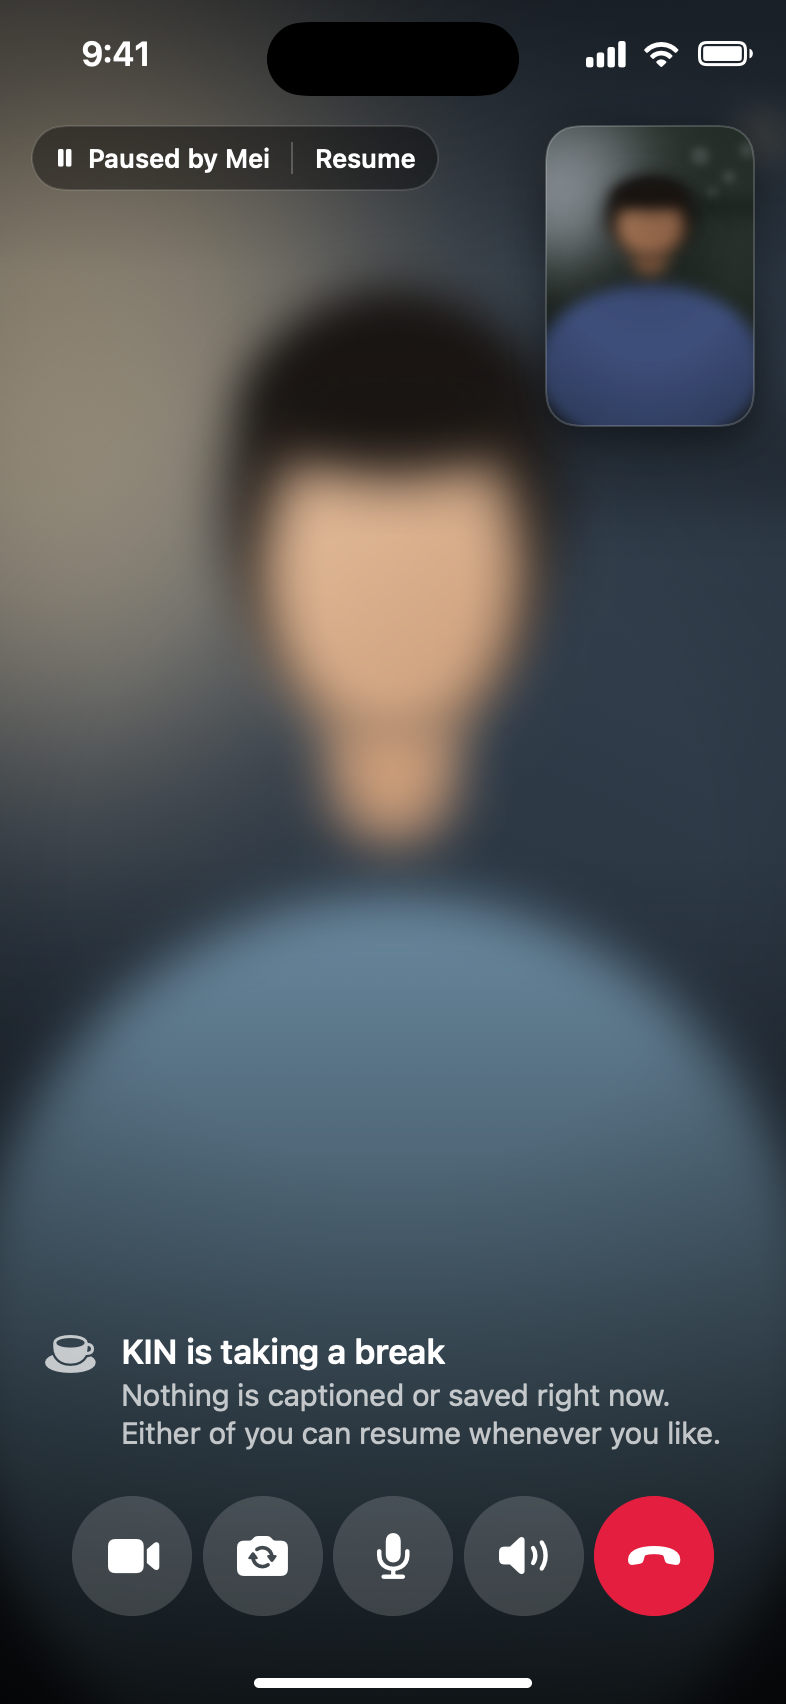
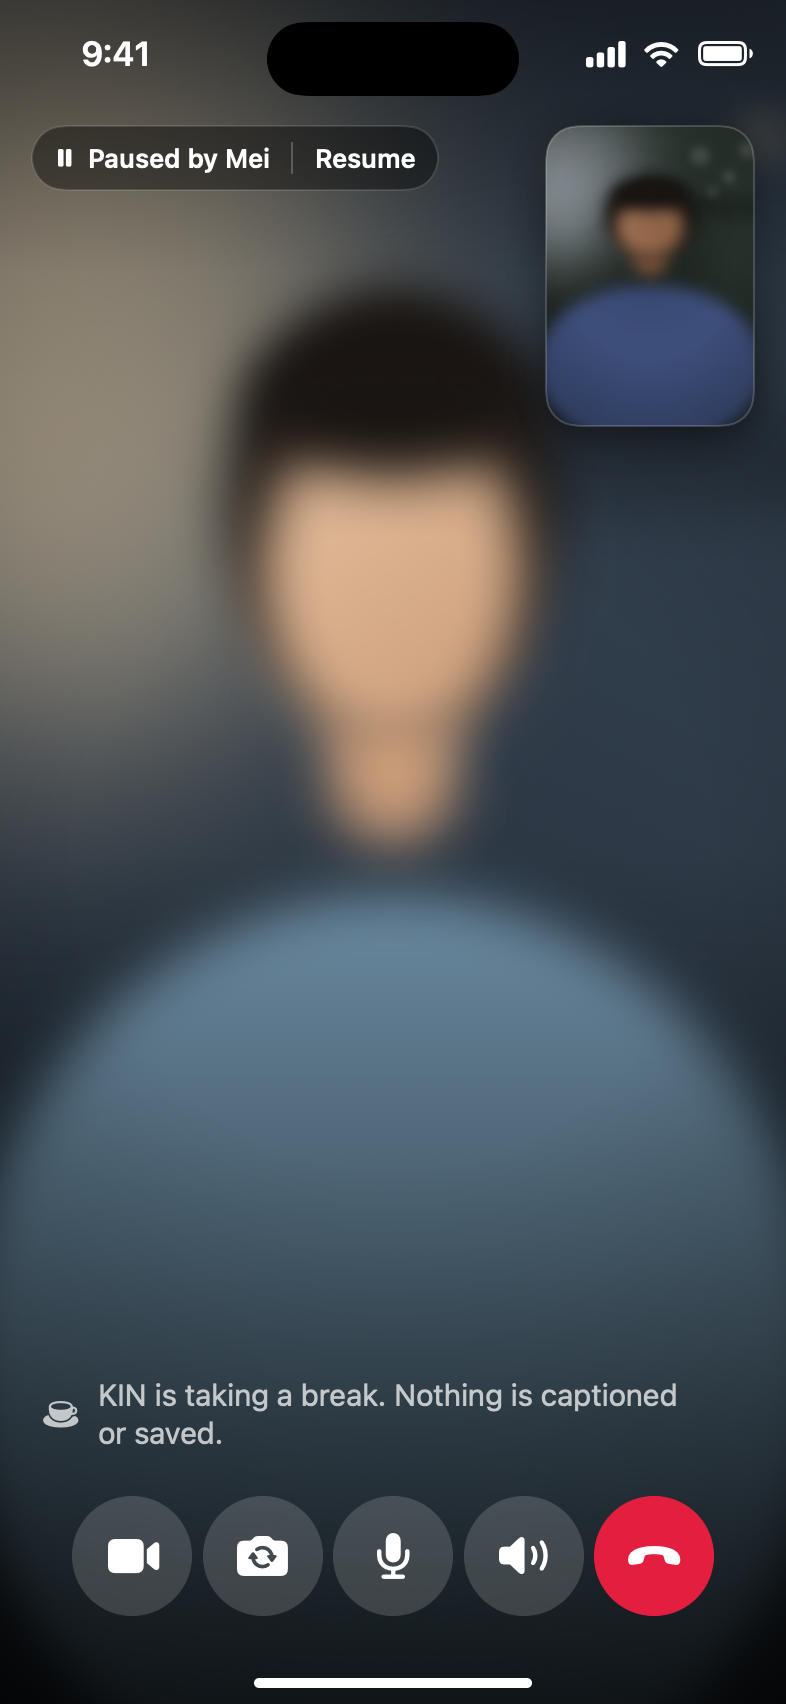
design(call): tap a word for context, and keep pause tiny
On-demand context (ARCHITECTURE amendment 5): recognized names, places
and terms in a caption get a faint underline, card triggers keep the
tinted dotted one, and any word is tappable. A tap highlights the word
and the answer lands in the card slot labelled "You asked"; a name KIN
has never heard returns the Who-is-X card with one explaining line. A
one-time tip covers discoverability. New states: call-23 to call-25.

Pause stays tiny: the paused state is the pill plus one quiet line in the
caption area. Design notes cover both, with a SwiftUI hint for tappable
caption runs (AttributedString links handled by OpenURLAction).

Changed region(s): [[0.1221, 0.7776, 0.916, 0.8709], [0.0611, 0.7776, 0.1221, 0.8398]]

diff --git a/design/KinMockups/Sources/KinDesign/Components/Captions.swift b/design/KinMockups/Sources/KinDesign/Components/Captions.swift
@@ -22,14 +22,18 @@ public struct LiveCaptions: View {
     let current: Caption?
     let partial: String?
     let highlights: [String]
+    let tappable: [String]          // recognized names, places, terms: quietly tappable (faint underline)
+    let pressed: String?            // the word the listener just tapped
     let voiceOn: Bool
     let onToggleVoice: () -> Void
     @Environment(\.kinStrings) private var str
 
     public init(speakerName: String, route: (from: String, to: String)?, previous: Caption? = nil, current: Caption?, partial: String? = nil,
-                highlights: [String] = [], voiceOn: Bool = false, onToggleVoice: @escaping () -> Void = {}) {
+                highlights: [String] = [], tappable: [String] = [], pressed: String? = nil,
+                voiceOn: Bool = false, onToggleVoice: @escaping () -> Void = {}) {
         self.speakerName = speakerName; self.route = route; self.previous = previous; self.current = current
-        self.partial = partial; self.highlights = highlights; self.voiceOn = voiceOn; self.onToggleVoice = onToggleVoice
+        self.partial = partial; self.highlights = highlights; self.tappable = tappable; self.pressed = pressed
+        self.voiceOn = voiceOn; self.onToggleVoice = onToggleVoice
     }
 
     public var body: some View {
@@ -47,7 +51,7 @@ public struct LiveCaptions: View {
                 if current.translation != nil {
                     Text(current.original).font(KinFont.captionOriginal).foregroundStyle(K.Call.text2).lineLimit(1)
                 }
-                Text(Self.highlighted(current.readable, highlights))
+                Text(Self.highlighted(current.readable, highlights, tappable: tappable, pressed: pressed))
                     .font(KinFont.captionLine).foregroundStyle(K.Call.text)
                     .lineSpacing(2).lineLimit(3).fixedSize(horizontal: false, vertical: true)
             }
@@ -78,16 +82,26 @@ public struct LiveCaptions: View {
         .accessibilityLabel(voiceOn ? "Translated voice on. Tap to turn off." : "Translated voice off. Tap to hear translations spoken.")
     }
 
-    static func highlighted(_ text: String, _ words: [String]) -> AttributedString {
+    /// Word treatments, strongest first: a word that triggered a card (tinted, dotted underline); a word you can tap
+    /// for context (a faint solid underline, deliberately quiet so captions never look like a page of links); the word
+    /// you just tapped (a soft highlight behind it while its card loads).
+    static func highlighted(_ text: String, _ words: [String], tappable: [String] = [], pressed: String? = nil) -> AttributedString {
         var a = AttributedString(text)
-        for w in words where !w.isEmpty {
+        func each(_ w: String, _ apply: (Range<AttributedString.Index>) -> Void) {
+            guard !w.isEmpty else { return }
             var search = a.startIndex..<a.endIndex
-            while let r = a[search].range(of: w) {
+            while let r = a[search].range(of: w) { apply(r); search = r.upperBound..<a.endIndex }
+        }
+        for w in tappable where !words.contains(w) {
+            each(w) { a[$0].underlineStyle = Text.LineStyle(pattern: .solid, color: Color.white.opacity(0.32)) }
+        }
+        for w in words {
+            each(w) { r in
                 a[r].foregroundColor = K.Call.highlight
                 a[r].underlineStyle = Text.LineStyle(pattern: .dot, color: K.Call.highlight.opacity(0.8))
-                search = r.upperBound..<a.endIndex
             }
         }
+        if let pressed { each(pressed) { a[$0].backgroundColor = Color.white.opacity(0.22) } }
         return a
     }
 }
@@ -104,6 +118,21 @@ public struct RouteLabel: View {
         }
         .font(KinFont.footnote).foregroundStyle(K.Call.text3)
         .accessibilityElement(children: .ignore).accessibilityLabel("Translating \(route.from) to \(route.to)")
+    }
+}
+
+/// Shown once, on the first call: how to get context KIN did not offer. Dismisses itself after the first tap.
+public struct CaptionTip: View {
+    public init() {}
+    public var body: some View {
+        HStack(spacing: 8) {
+            Image(systemName: "hand.tap.fill").font(.system(size: 13, weight: .semibold))
+            Text("Tap a name to see who it is")
+            Image(systemName: "xmark").font(.system(size: 10, weight: .bold)).foregroundStyle(K.Call.text3).padding(.leading, 2)
+        }
+        .font(KinFont.footnoteEmph).foregroundStyle(K.Call.text)
+        .padding(.horizontal, 12).frame(height: 34)
+        .background(Color.white.opacity(0.14), in: Capsule())
     }
 }
 

diff --git a/design/KinMockups/Sources/KinDesign/Screens/CallScreen.swift b/design/KinMockups/Sources/KinDesign/Screens/CallScreen.swift
@@ -5,6 +5,7 @@ import SwiftUI
 public struct CallScreen: View {
     public enum Slot {
         case gap(GlanceItem), meaning(PragmaticsCard), story(GlanceItem), ask(GlanceItem)
+        case tappedGap(GlanceItem), tappedAsk(GlanceItem)     // answers to tapping a word in the caption
     }
     public struct Model {
         public var remoteName: String
@@ -16,6 +17,9 @@ public struct CallScreen: View {
         public var current: Caption? = nil
         public var partial: String? = nil
         public var highlights: [String] = []
+        public var tappable: [String] = []
+        public var pressed: String? = nil
+        public var tip = false
         public var slot: Slot? = nil
         public var bridge: GlanceItem? = nil
         public var banner: (symbol: String, text: String, tint: Color)? = nil
@@ -65,8 +69,9 @@ public struct CallScreen: View {
             } else {
                 if let bridge = m.bridge { HStack { Spacer(minLength: 48); BridgeChip(bridge) }.padding(.top, 9) }
                 if let slot = m.slot { slotView(slot) }
+                if m.tip { HStack { CaptionTip(); Spacer() } }
                 LiveCaptions(speakerName: m.remoteName, route: m.route, previous: m.slot == nil ? m.previous : nil, current: m.current,
-                             partial: m.partial, highlights: m.highlights, voiceOn: m.voiceOn)
+                             partial: m.partial, highlights: m.highlights, tappable: m.tappable, pressed: m.pressed, voiceOn: m.voiceOn)
                     .padding(.top, 4)
             }
             CallControls(muted: m.muted).padding(.top, 12)
@@ -80,19 +85,19 @@ public struct CallScreen: View {
         case .meaning(let c): MeaningCard(c)
         case .story(let i): StorylineCard(i)
         case .ask(let i): AskCard(i, speakerName: m.remoteName)
+        case .tappedGap(let i): GapCard(i, viaTap: true)
+        case .tappedAsk(let i): AskCard(i, speakerName: m.remoteName, viaTap: true)
         }
     }
 
+    /// Pause stays tiny: the pill says who paused and holds Resume; the caption area just says it is quiet.
     private var pausedNote: some View {
-        HStack(alignment: .top, spacing: 10) {
-            Image(systemName: "cup.and.saucer.fill").font(.system(size: 20)).foregroundStyle(K.Call.text2)
-            VStack(alignment: .leading, spacing: 2) {
-                Text("KIN is taking a break").font(KinFont.headline).foregroundStyle(K.Call.text)
-                Text("Nothing is captioned or saved right now. Either of you can resume whenever you like.")
-                    .font(KinFont.subhead).foregroundStyle(K.Call.text2).fixedSize(horizontal: false, vertical: true)
-            }
-            Spacer(minLength: 0)
+        HStack(spacing: 8) {
+            Image(systemName: "cup.and.saucer.fill").font(.system(size: 14))
+            Text("KIN is taking a break. Nothing is captioned or saved.")
         }
+        .font(KinFont.subhead).foregroundStyle(K.Call.text2)
+        .frame(maxWidth: .infinity, alignment: .leading)
         .padding(.horizontal, 4)
     }
 }

diff --git a/design/KinMockups/Sources/KinDesign/Components/Cards.swift b/design/KinMockups/Sources/KinDesign/Components/Cards.swift
@@ -32,8 +32,9 @@ struct Eyebrow: View {
 /// "Who's that?" (who/what) and culture terms (term/saying), straight from a `GlanceItem`.
 public struct GapCard: View {
     let item: GlanceItem
+    let viaTap: Bool                // true when this card answers the listener tapping a word (POST /explain)
     @Environment(\.kinStrings) private var str
-    public init(_ item: GlanceItem) { self.item = item }
+    public init(_ item: GlanceItem, viaTap: Bool = false) { self.item = item; self.viaTap = viaTap }
 
     /// The engine sends "Mei's friend from the Fudan climbing wall, first mentioned Sep 14": the source clause gets its
     /// own quieter line so the identity reads first.
@@ -75,6 +76,14 @@ public struct GapCard: View {
     }
 
     @ViewBuilder var eyebrow: some View {
+        if viaTap {
+            Eyebrow(symbol: "hand.tap.fill", text: str.youAsked, color: K.Call.highlight)
+        } else {
+            pushEyebrow
+        }
+    }
+
+    @ViewBuilder var pushEyebrow: some View {
         switch (item.kind, item.gap) {
         case ("who", "reminder"), ("what", "reminder"): Eyebrow(symbol: "clock.arrow.circlepath", text: str.reminder, color: K.Call.highlight)
         case ("who", _), ("what", _): Eyebrow(symbol: nil, text: str.newToYou, color: K.Call.text3)
@@ -163,13 +172,20 @@ public struct StorylineCard: View {
 public struct AskCard: View {
     let item: GlanceItem
     let speakerName: String
-    public init(_ item: GlanceItem, speakerName: String) { self.item = item; self.speakerName = speakerName }
+    let viaTap: Bool
+    @Environment(\.kinStrings) private var str
+    public init(_ item: GlanceItem, speakerName: String, viaTap: Bool = false) { self.item = item; self.speakerName = speakerName; self.viaTap = viaTap }
 
     public var body: some View {
         VStack(alignment: .leading, spacing: 10) {
             VStack(alignment: .leading, spacing: 2) {
-                Eyebrow(symbol: "questionmark.circle.fill", text: "\(speakerName) mentioned", color: K.Call.highlight)
+                Eyebrow(symbol: viaTap ? "hand.tap.fill" : "questionmark.circle.fill",
+                        text: viaTap ? str.youAsked : "\(speakerName) mentioned", color: K.Call.highlight)
                 Text("Who is \(item.term)?").font(KinFont.headline).foregroundStyle(K.Call.text)
+                if viaTap {
+                    Text("KIN doesn't know \(item.term) yet. Add them, and next time it can tell you.")
+                        .font(KinFont.footnote).foregroundStyle(K.Call.text2).fixedSize(horizontal: false, vertical: true)
+                }
             }
             // The two most likely relations from the language's kinship table: one tap adds the person.
             HStack(spacing: 8) {

diff --git a/design/KinMockups/Sources/KinDesign/Theme/Strings.swift b/design/KinMockups/Sources/KinDesign/Theme/Strings.swift
@@ -5,12 +5,13 @@ import SwiftUI
 public struct KinStrings: Sendable {
     public var newToYou = "New to you", reminder = "Mentioned before", voiceOn = "Voice on", voiceOff = "Voice off"
     public var onlyYou = "Only you see this", whatItMeans = "What it means", catchingUp = "Catching up"
+    public var youAsked = "You asked"
     public static let en = KinStrings()
     public static let ta = KinStrings(newToYou: "உங்களுக்குப் புதியது", reminder: "முன்பு கேட்டது", voiceOn: "குரல் ஆன்",
                                       voiceOff: "குரல் ஆஃப்", onlyYou: "உங்களுக்கு மட்டும்", whatItMeans: "இதன் அர்த்தம்",
-                                      catchingUp: "தொடர்ச்சி")
+                                      catchingUp: "தொடர்ச்சி", youAsked: "நீங்கள் கேட்டது")
     public static let zh = KinStrings(newToYou: "第一次听说", reminder: "之前提过", voiceOn: "语音开", voiceOff: "语音关",
-                                      onlyYou: "仅你可见", whatItMeans: "意思是", catchingUp: "近况")
+                                      onlyYou: "仅你可见", whatItMeans: "意思是", catchingUp: "近况", youAsked: "你问的")
 }
 
 private struct KinStringsKey: EnvironmentKey { static let defaultValue = KinStrings.en }

diff --git a/design/KinMockups/Sources/KinDesign/Sample/SampleData.swift b/design/KinMockups/Sources/KinDesign/Sample/SampleData.swift
@@ -97,4 +97,18 @@ public enum Sample {
     public static let hikeBridge: GlanceItem = decode(#"""
     {"key":"bridge:38","kind":"bridge","title":"Paatti hasn't heard yet","body":"you went hiking with Mei when she visited","target":"p_paatti_2","private":true}
     """#)
+
+    // On-demand context (POST /api/calls/{id}/explain). Arjun heard about Lin 25 days ago, so KIN thought he
+    // remembered and pushed nothing; he taps "Lin" and gets her card.
+    public static let linExplained: GlanceItem = decode(#"""
+    {"key":"who:p_lin_17","kind":"who","title":"Lin","native":"林","body":"Mei's friend from the Fudan climbing wall, first mentioned Sep 14","category":"person","node_id":"p_lin_17","gap":null}
+    """#)
+    public static let meiXiaoWang: Transcript = decode(#"""
+    {"call_id":12,"utterance_id":96,"speaker":"p_mei_5","speaker_identity":"p5","src_text":"小王也跟我们一起去了","src_lang":"zh","target_lang":"en","translation":"Xiao Wang came with us too."}
+    """#)
+    // Tapping a name KIN has never heard returns a single ask item.
+    public static let xiaoWangAsk: GlanceItem = decode(#"""
+    {"key":"ask:xiao wang","kind":"ask","title":"Xiao Wang","term":"Xiao Wang","guess":"Xiao Wang",
+     "suggestions":[{"owner":"p_mei_5","relation":"friend","label":"Mei's friend"},{"owner":"p_mei_5","relation":"classmate","label":"Mei's classmate"}]}
+    """#)
 }

diff --git a/design/KinMockups/Sources/KinDesign/Screens/CallStates.swift b/design/KinMockups/Sources/KinDesign/Screens/CallStates.swift
@@ -76,6 +76,21 @@ public extension CallStates {
         var m = paatti(); m.previous = Caption(Sample.paattiRaviPeriyappa); m.current = Caption(Sample.paattiFriends)
         m.bridge = Sample.hikeBridge; return m
     }
+    /// On-demand context, 1 of 3: recognized words are quietly tappable; the first call shows a one-time tip.
+    static var tappableCaption: CallScreen.Model {
+        var m = mei(); m.previous = Caption(Sample.meiHello); m.current = Caption(Sample.meiLin)
+        m.tappable = ["Lin", "Moganshan"]; m.tip = true; return m
+    }
+    /// 2 of 3: KIN thought Arjun remembered Lin (heard 25 days ago) and pushed nothing. He taps "Lin".
+    static var tapResult: CallScreen.Model {
+        var m = mei(); m.current = Caption(Sample.meiLin); m.tappable = ["Lin", "Moganshan"]; m.pressed = "Lin"
+        m.slot = .tappedGap(Sample.linExplained); return m
+    }
+    /// 3 of 3: he taps a name KIN has never heard, and gets the "Who is X?" card.
+    static var tapUnknown: CallScreen.Model {
+        var m = mei(); m.previous = Caption(Sample.meiLin); m.current = Caption(Sample.meiXiaoWang); m.pressed = "Xiao Wang"
+        m.slot = .tappedAsk(Sample.xiaoWangAsk); return m
+    }
     /// Film shot 12: you paused KIN yourself.
     static var pausedByMe: CallScreen.Model { var m = mei(); m.kin = .pausedByMe; return m }
 }

diff --git a/design/KinMockups/Sources/KinDesign/Screens/AudioCallScreen.swift b/design/KinMockups/Sources/KinDesign/Screens/AudioCallScreen.swift
@@ -63,6 +63,8 @@ public struct AudioCallScreen: View {
                             case .meaning(let c): MeaningCard(c)
                             case .story(let i): StorylineCard(i)
                             case .ask(let i): AskCard(i, speakerName: m.name)
+                            case .tappedGap(let i): GapCard(i, viaTap: true)
+                            case .tappedAsk(let i): AskCard(i, speakerName: m.name, viaTap: true)
                             }
                         case .bridge(let i): HStack { Spacer(minLength: 48); BridgeChip(i) }
                         }

diff --git a/design/KinMockups/Sources/KinRender/main.swift b/design/KinMockups/Sources/KinRender/main.swift
@@ -49,6 +49,9 @@ MainActor.assumeIsolated {
     call("call-20-two-ravis", CallStates.paattiTwoRavis)
     call("call-21-paatti-hike-bridge", CallStates.paattiHikeBridge)
     call("call-22-paused-by-me", CallStates.pausedByMe)
+    call("call-23-tappable-caption", CallStates.tappableCaption)
+    call("call-24-tap-result", CallStates.tapResult)
+    call("call-25-tap-unknown-ask", CallStates.tapUnknown)
 
     let only = Set(CommandLine.arguments.dropFirst(2))
     var images: [(String, CGImage)] = []

diff --git a/docs/collab/design-notes.md b/docs/collab/design-notes.md
@@ -1,6 +1,6 @@
 # KIN iOS design notes
 
-Mockups: `design/KinMockups/` (SwiftUI package). Screens: `design/screens/*.png` (37 states, plus `_contact-sheet.png`).
+Mockups: `design/KinMockups/` (SwiftUI package). Screens: `design/screens/*.png` (40 states, plus `_contact-sheet.png`).
 Brand: `design/brand/` (app icon, launch screen, launch film cards).
 Every component takes the real wire types from `ios/Kin/Sources/Contracts/Contracts.swift` (mirrored at commit dc5bc87),
 and all sample data is the exact JSON of ARCHITECTURE section 9, decoded through those types. If the server shape
@@ -138,9 +138,9 @@ still work ("Jess: Priya's roommate at Georgia Tech").
 **Voice toggle (call-10).** Off by default, next to the captions, written out ("Voice off" / "Voice on") with an icon.
 On means a translated voice for this listener only.
 
-**Edge states (call-11 to 14).** Paused (who paused, Resume, and what pausing means), weak connection, the other person
-joined without KIN, and the first call ("KIN on, learning" plus one line explaining that it learns as you talk). Each is
-one short line under the KIN pill, never a modal.
+**Edge states (call-11 to 14).** Paused (in the pill and one quiet line in the caption area; see "Round 3"), weak
+connection, the other person joined without KIN, and the first call ("KIN on, learning" plus one line explaining that
+it learns as you talk). Each is one short line under the KIN pill, never a modal.
 
 **Paatti's view, in Tamil (call-15).** Same app for everyone: her captions and cards arrive in Tamil, and the chrome
 strings around them come from `KinStrings.ta`. When Arjun mentions Mei, Paatti's card says who Mei is to him using only
@@ -275,3 +275,43 @@ Launch film cards in `design/brand/film/` (1920 by 1080, for the shot list in `d
 | overlay-september, overlay-next-day, overlay-no-card | Lower thirds and the "No card." overlay, transparent PNGs |
 
 Render them again with `.build/debug/KinRender --brand ../brand` after any change.
+
+## Round 3: on-demand context and a tiny pause
+
+From the 2026-10-25 additions to PRODUCT.md and the design brief (`POST /api/calls/{id}/explain`, ARCHITECTURE
+amendment 5).
+
+### Tap a word for context (call-23 to 25)
+
+KIN's push cards will sometimes miss: it thought Arjun remembered Lin (he heard about her 25 days ago, p 0.40, so no
+card). On-demand context is the safety net.
+
+- **Three word treatments in a caption, strongest first.** A word that triggered a card: tinted and dotted-underlined.
+  A word KIN recognizes (a name, place or term in the listener's own grounded or linker spans): a faint 1 point solid
+  underline at 32 percent white, quiet enough that captions never look like a page of links. Every other word: plain.
+- **Any word is tappable,** not only underlined ones. Tapping an unrecognized word sends that word plus its neighbors
+  (two-word names like "Xiao Wang") to `explain`; the server's matcher finds the span.
+- **Tapping** puts a soft highlight behind the word while the request runs, then the answer appears in the usual card
+  slot, replacing any card there. The card says "You asked" (with a tap icon) instead of "New to you" or "Mentioned
+  before", so it is obviously a response to you and not KIN interrupting.
+- **Nothing known yet** returns the "Who is X?" card, with one extra line: "KIN doesn't know Xiao Wang yet. Add them,
+  and next time it can tell you." Relations are social ones from the speaker's world ("Mei's friend", "Mei's
+  classmate"), plus "Someone else" and "Not now".
+- **Not a name or term** (empty `items`): the highlight fades and nothing else happens. No error, no toast.
+- **Discoverability:** a one-time tip above the captions on the first call: "Tap a name to see who it is". It goes away
+  after the first tap or the first dismiss and never returns.
+- **No gestures** (tilt, shake, long press): phones move too much during calls, and a tap is the most learnable action.
+- **Privacy:** the tap and its answer are private to the person tapping; the other person sees nothing change.
+- **Implementation hint for SwiftUI:** build the caption as an `AttributedString`, give tappable runs a `.link` like
+  `kin://explain?text=Lin&u=91`, style them with `underlineStyle` instead of the default link color, and handle the
+  tap with an `OpenURLAction` in the environment. VoiceOver reads links in `Text` as separate elements, so the names in
+  a caption become individually reachable without extra work.
+
+### Pause stays tiny (call-11, call-22)
+
+- One tap on the pause button inside the "KIN on" pill. No confirmation and no separate screen.
+- Both people's pills change at once: "KIN paused · Resume" for the person who paused, "Paused by Mei · Resume" for the
+  other. Either of them can resume with one tap.
+- The caption area shows one quiet line, "KIN is taking a break. Nothing is captioned or saved.", and nothing else.
+- The point is consent in the moment (Mei about to talk about her mom's surgery, Paatti about Saroja's health), so the
+  control has to be instant and the state impossible to miss, but it must not turn the call into a settings screen.
